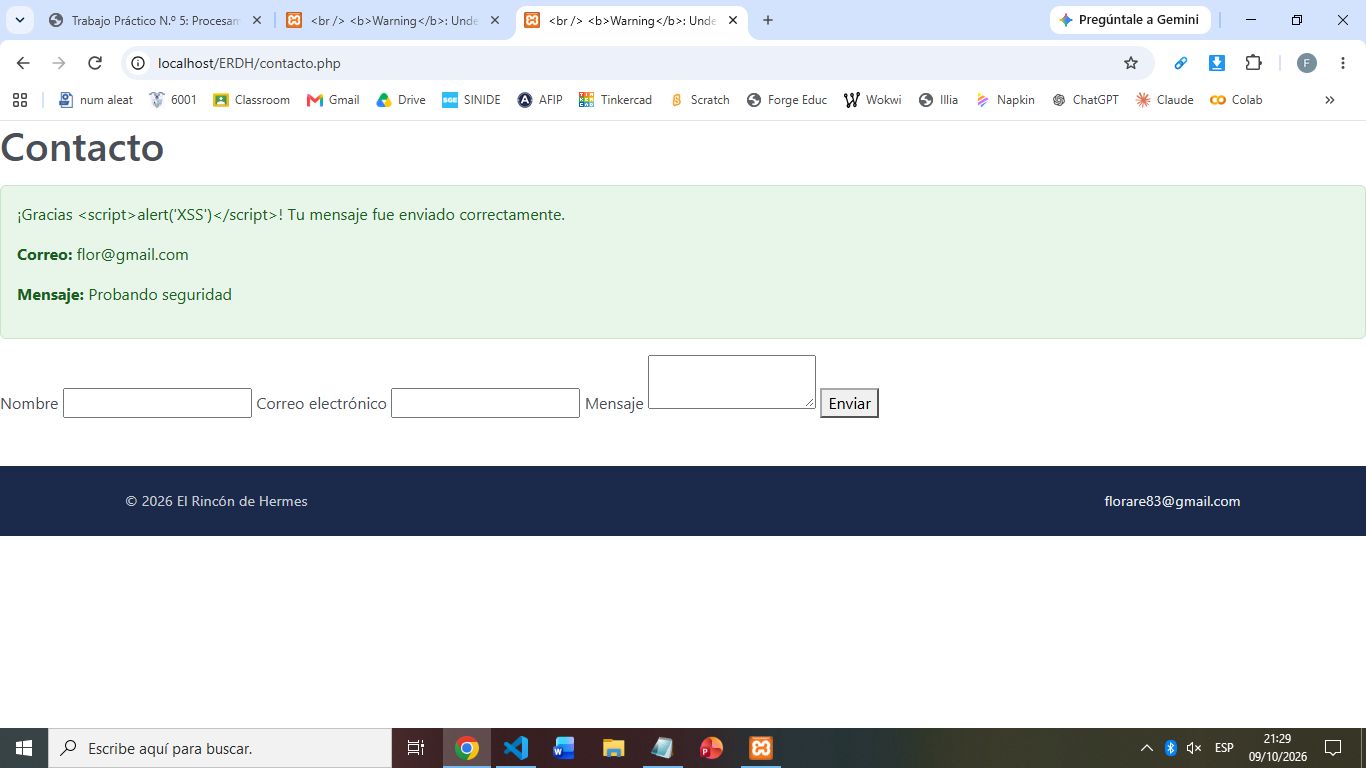
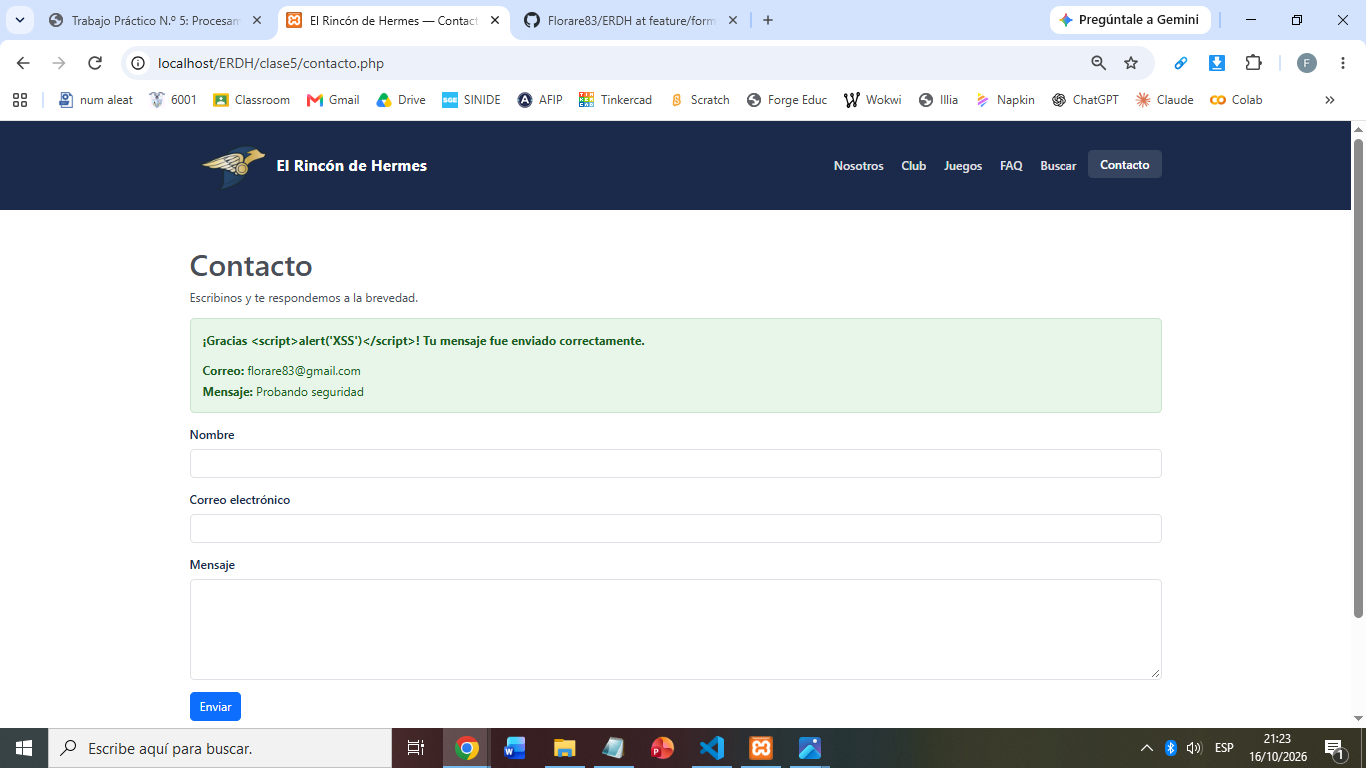
Correcciones finales

diff --git a/README.md b/README.md
@@ -102,9 +102,31 @@ Todas las variables de `$_POST` y `$_GET` se sanitizan con la función
 `limpiar()` (`includes/funciones.php`) para prevenir XSS.
 
 ### Capturas
-![Validación con errores](clase5/img/error-validacion.png)
-![Envío exitoso](clase5/img/exito.png)
-![Prueba XSS](clase5/img/xss.png)
-![Búsqueda GET](clase5/img/busquedaget.png)
-![Búsqueda XSS](clase5/img/busquedaxss.png)
 
+**1. Contacto vacío: errores de validación**
+
+![Contacto vacío, aparecen los errores](clase5/img/error_validacion.png)
+
+**2. Correo inválido: error de formato y campos conservados**
+
+![Correo abc, error de formato y los campos se conservan](clase5/img/validacion_correo.png)
+
+**3. Envío correcto**
+
+![Envío correcto](clase5/img/envio_correcto.png)
+
+**4. XSS en contacto**
+
+![XSS en contacto](clase5/img/xss.png)
+
+**5. Búsqueda por GET**
+
+![Búsqueda catan](clase5/img/busqueda_get.png)
+
+**6. Búsqueda vacía**
+
+![Búsqueda vacía](clase5/img/busqueda_vacia.png)
+
+**7. XSS en el buscador**
+
+![XSS en el buscador](clase5/img/busqueda_xss.png)
